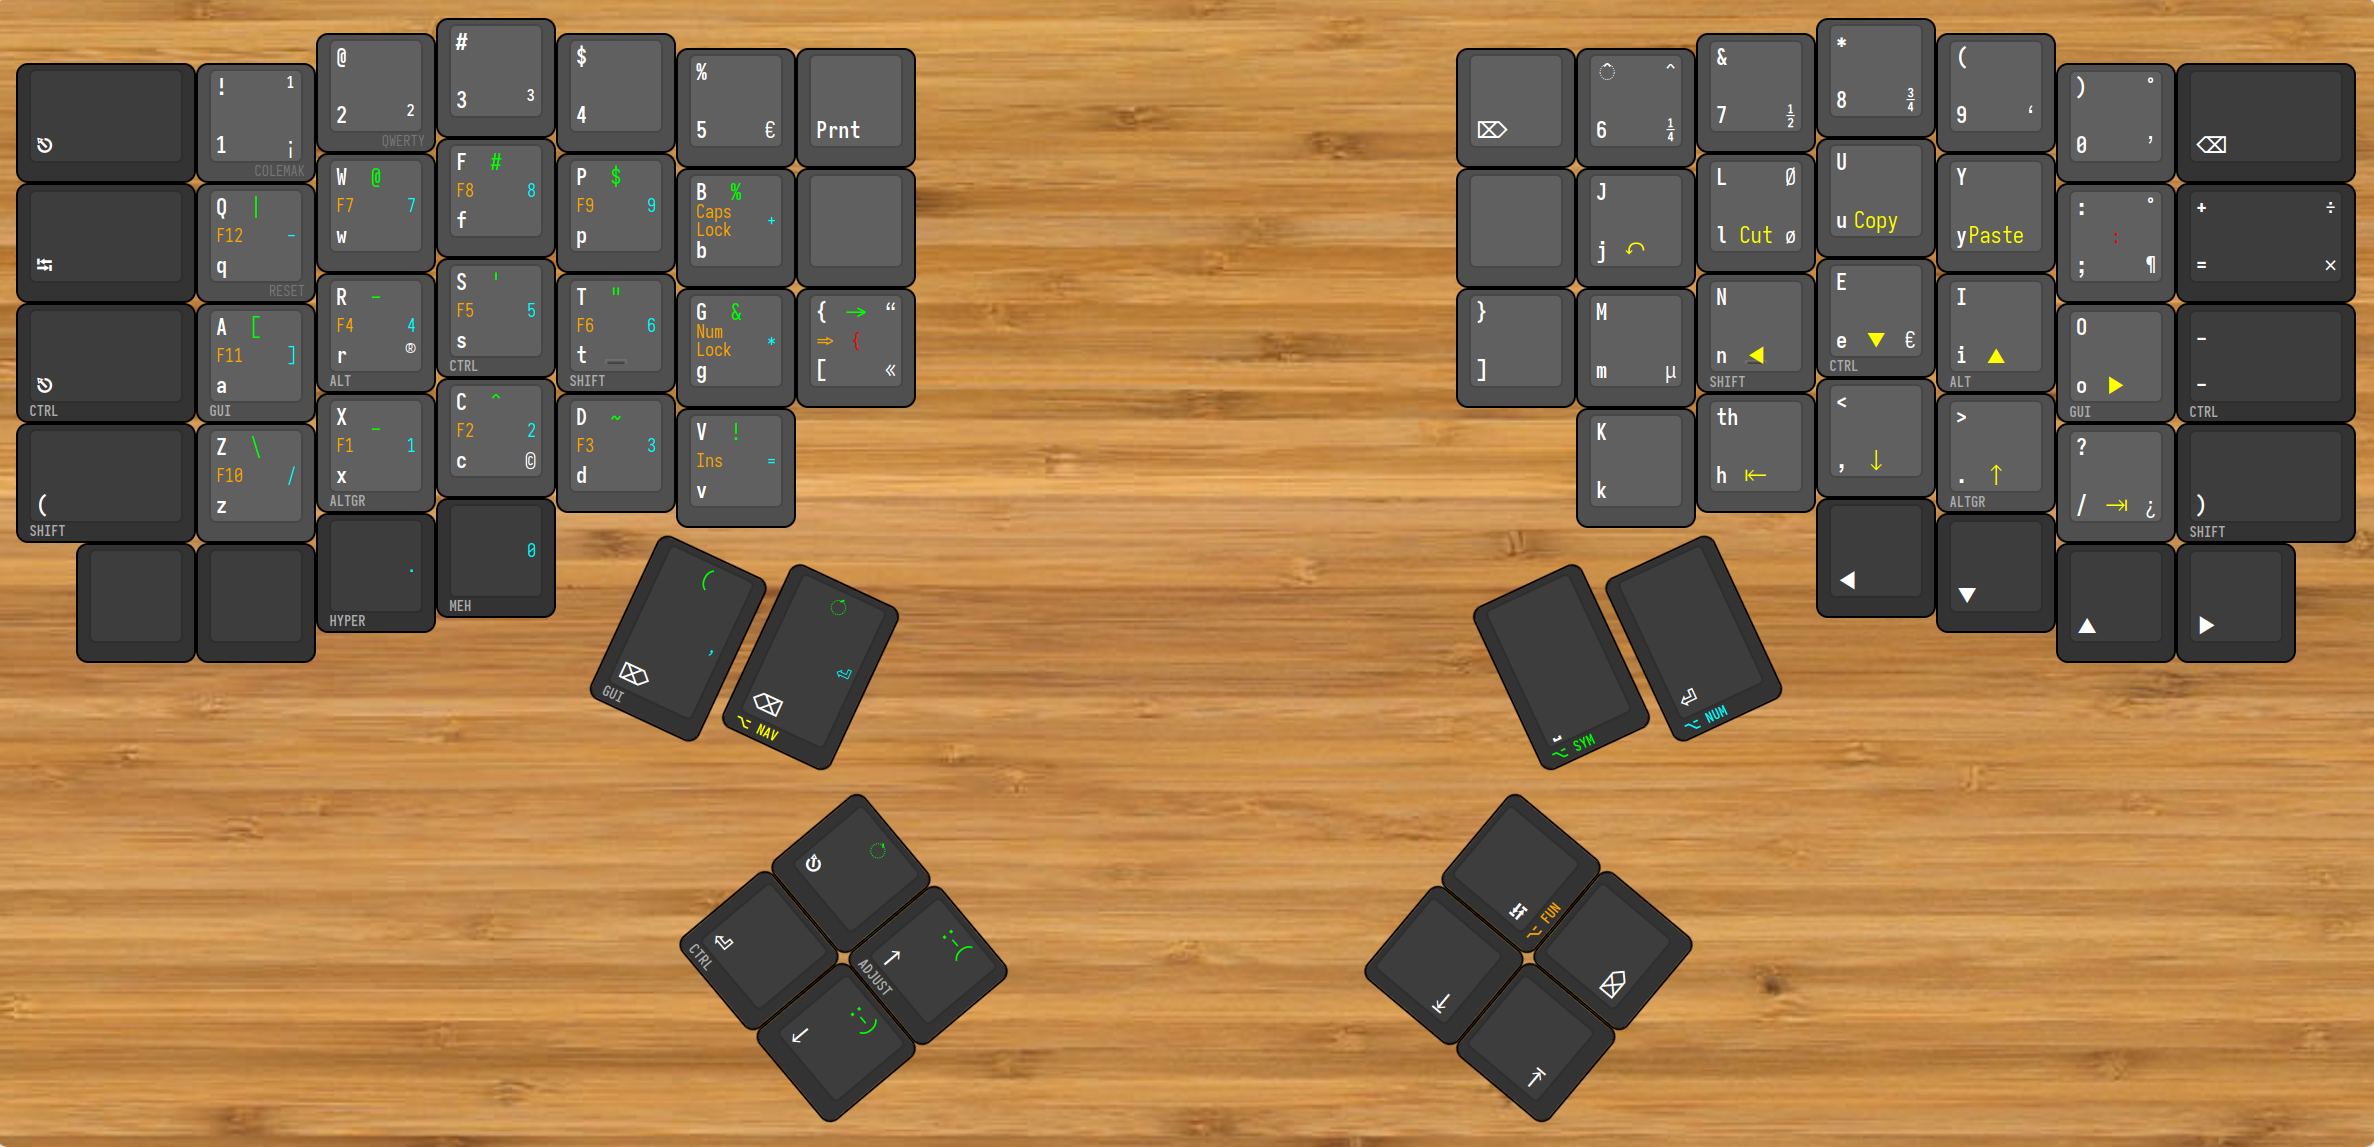
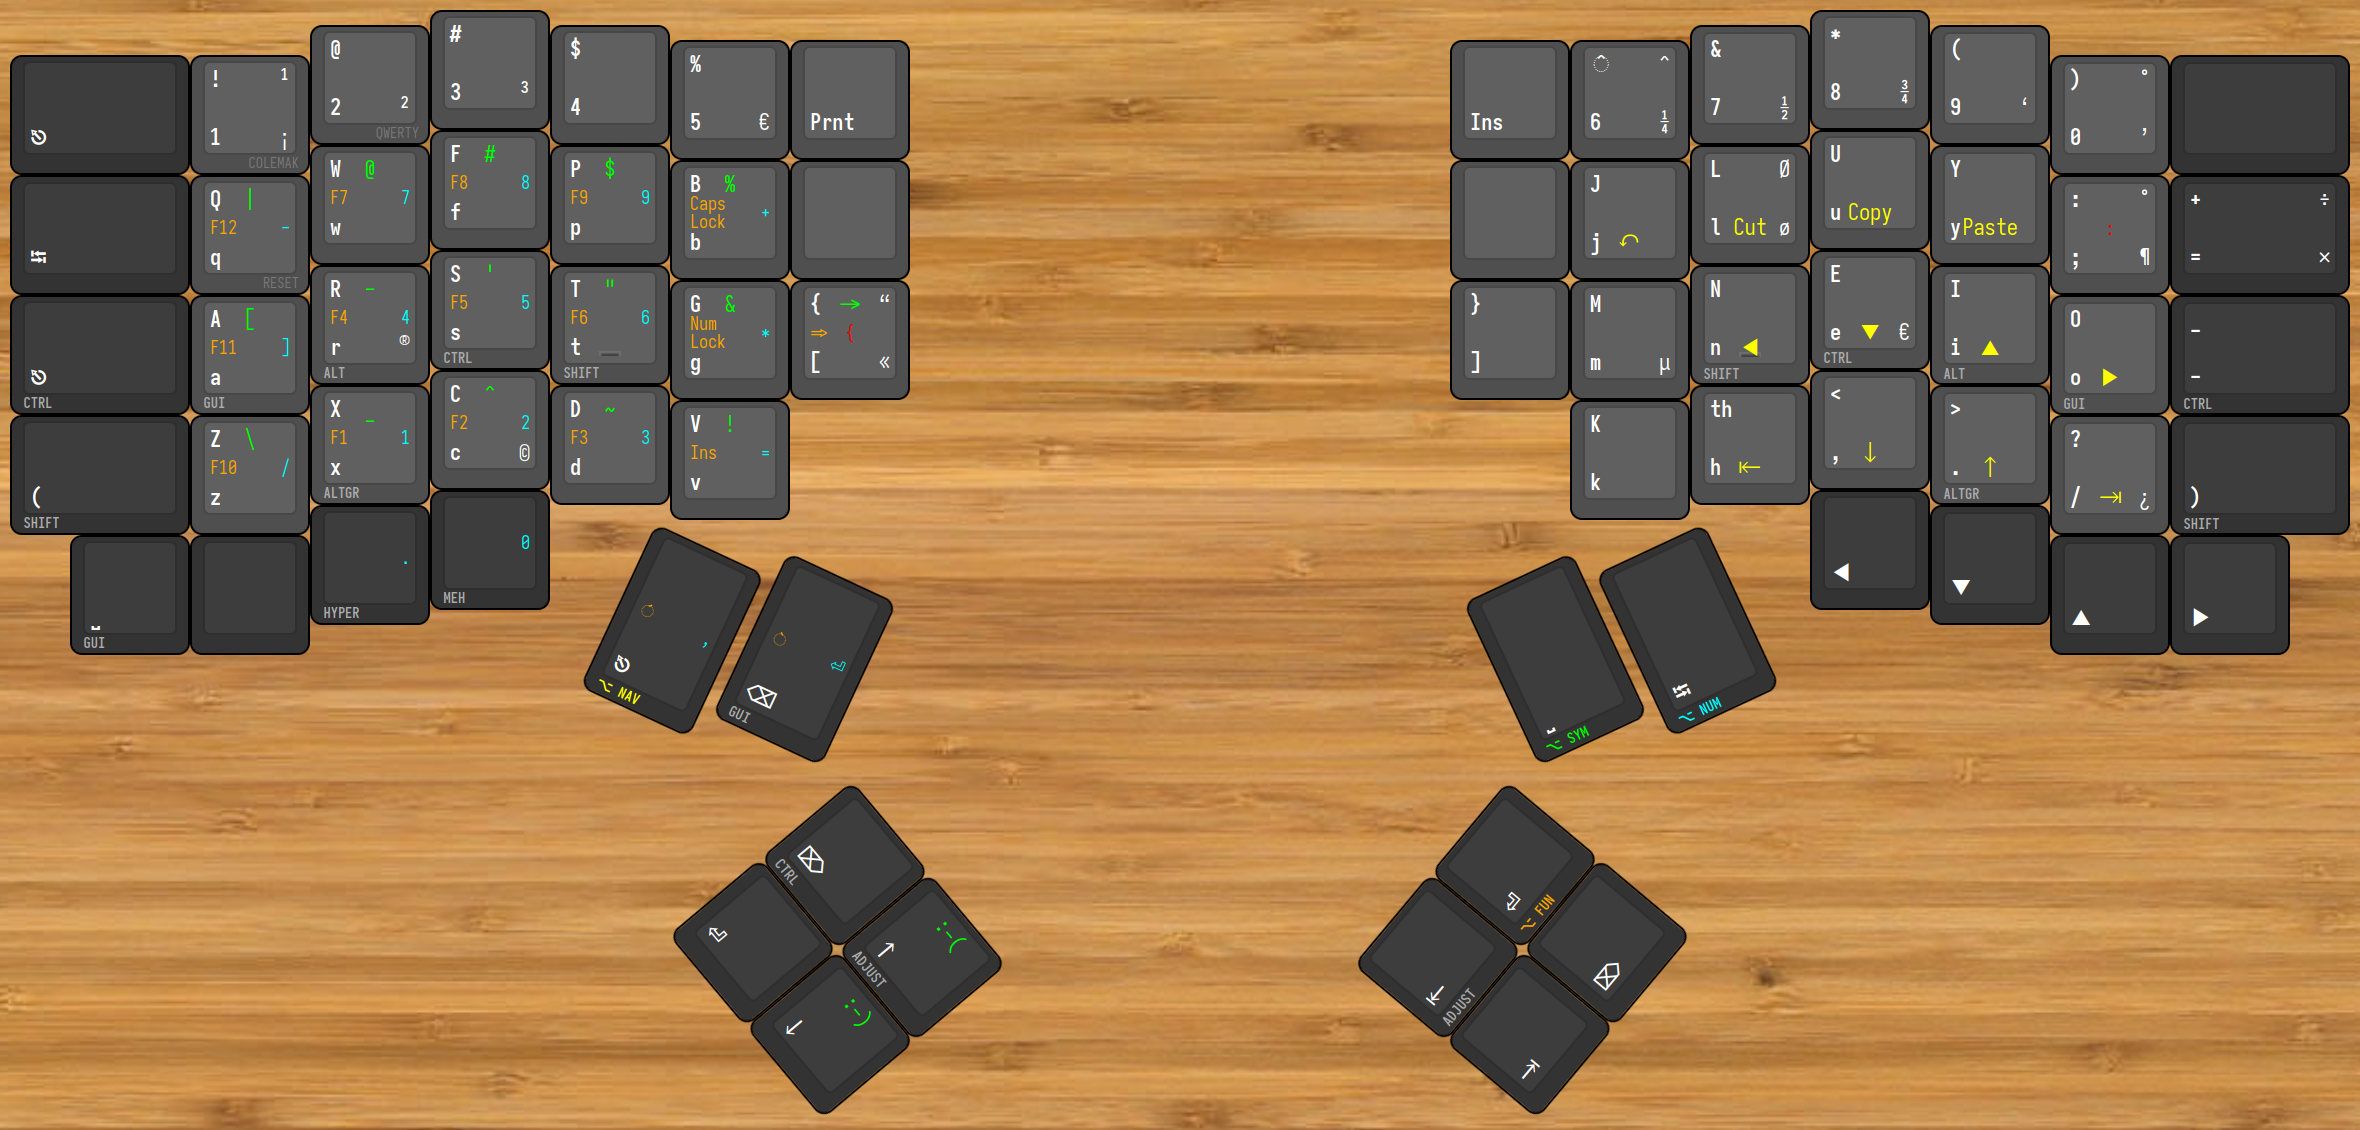
Minor fixes and better thumbs

diff --git a/keymap.c b/keymap.c
@@ -59,19 +59,23 @@ enum tap_dance_codes {
 #define KC_AEQL LALT_T(KC_EQL)        // Equals / Left Alt
 #define KC_CMIN RCTL_T(KC_MINUS)      // Minus / Right Ctrl
 #define KC_NUES LT(_NUMB, KC_ESC)     // Esc / _numbers
-#define KC_CBSP LCTL_T(KC_BSPC)        // Backspace / Left Ctrl
+#define KC_CTDE LCTL_T(KC_DEL)        // Del / Left Ctrl
 #define KC_SYSP LT(_SYMB, KC_SPC)     // Space / _symbols
 /* #define KC_AWEN LT(_AWES, KC_ENT)     // Enter / AwesomeWM */
 #define KC_FUTA LT(_FUNC, KC_TAB)     // Tab / _functions
 #define KC_CTEN LCTL_T(KC_ENT)        // Enter / Right Alt
 
-#define KC_GUDE RGUI_T(KC_DEL)        // Delete / Right Gui
+#define KC_GUES RGUI_T(KC_ESC)        // Backspace / Right Gui
+#define KC_AEQL LALT_T(KC_EQL)        // Equals / Left Alt
+#define KC_GUBS RGUI_T(KC_BSPC)       // Backspace / Right Gui
 #define KC_GUEN RGUI_T(KC_ENT)        // Enter / Right Gui
 #define KC_GUCO RGUI_T(KC_COMM)       // Comma / Right Gui
 #define KC_SYBS LT(_SYMB, KC_BSPC)    // Backspace / _symbols
-#define KC_FUDE LT(_FUNC, KC_DEL)     // Delete / _functions
+#define KC_FUEN LT(_FUNC, KC_ENT)     // Enter / _functions
 #define KC_NUEN LT(_NUMB, KC_ENT)     // Enter / _numbers
+#define KC_NUTA LT(_NUMB, KC_TAB)     // Tab / _numbers
 #define KC_NAES LT(_NAVI, KC_ESC)     // Esc / _navi
+#define KC_NABS LT(_NAVI, KC_BSPC)    // Backspace / _navi
 
 #define KC_HYBS HYPR_T(KC_BSPC)        // Backspace / Hyper
 #define KC_MEEN MEH_T(KC_ENT)          // Enter / Meh
@@ -196,7 +200,7 @@ uint16_t get_tapping_term(uint16_t keycode, keyrecord_t *record) {
     return TAPPING_TERM - 50;
 
   // Left thumb for delete/gui/mouse combo
-  case KC_GUDE:
+  case KC_GUBS:
   case KC_GUEN:
     return TAPPING_TERM - 20;
 
@@ -230,12 +234,12 @@ const uint16_t PROGMEM keymaps[][MATRIX_ROWS][MATRIX_COLS] = {
    KC_CESC ,KC_GU_A ,KC_AL_R ,KC_CT_S ,KC_LS_T ,KC_G    ,TD_LBRC ,
    KC_LSPO ,KC_Z    ,KC_AR_X ,KC_C    ,KC_D    ,KC_V    ,
    KC_GUSP ,XXXXXXX ,KC_HYPR ,KC_MEH  ,
-                                  KC_GUDE ,KC_CBSP ,
-                                  KC_NAES ,KC_ADPU ,
-                                  KC_CTEN ,KC_PGDN ,
+                                  KC_NAES ,KC_GUBS ,
+                                  KC_CTDE ,KC_ADPU ,
+                                  KC_ENT  ,KC_PGDN ,
         // right hand
-                     KC_DEL  ,KC_6    ,KC_7    ,KC_8    ,KC_9    ,KC_0    ,KC_BSPC ,
-                     XXXXXXX ,KC_J    ,KC_L    ,KC_U    ,KC_Y    ,TD_SCLN ,KC_EQL ,
+                     KC_INS  ,KC_6    ,KC_7    ,KC_8    ,KC_9    ,KC_0    ,XXXXXXX ,
+                     XXXXXXX ,KC_J    ,KC_L    ,KC_U    ,KC_Y    ,TD_SCLN ,KC_EQL  ,
                      TD_RBRC ,KC_M    ,KC_RS_N ,KC_CT_E ,KC_AL_I ,KC_GU_O ,KC_CMIN ,
                               KC_K    ,KC_H    ,KC_COMM ,KC_AR_DO,KC_SLSH ,KC_RSPC ,
                                        KC_LEFT ,KC_DOWN ,KC_UP   ,KC_RGHT,
